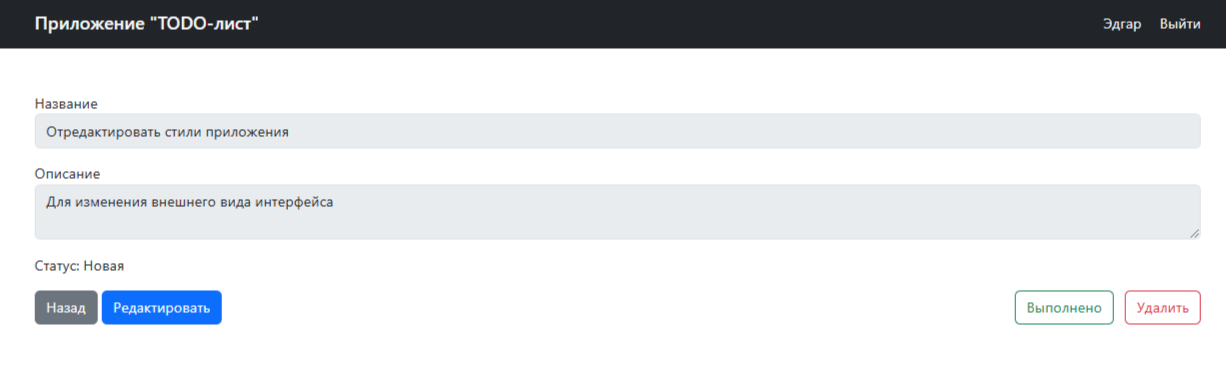
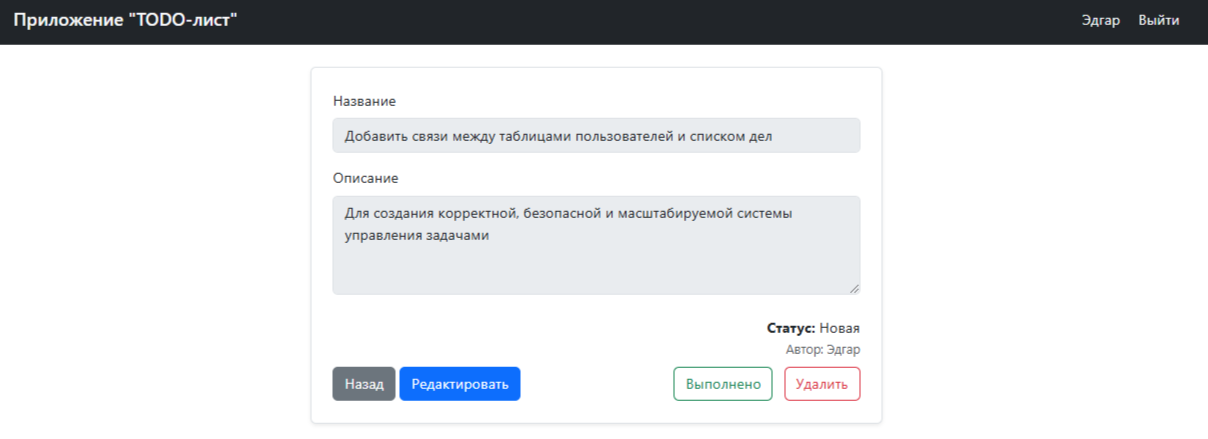
0. ToOne [#6873]

diff --git a/src/main/resources/templates/tasks/view.html b/src/main/resources/templates/tasks/view.html
@@ -5,47 +5,60 @@
 
 <div th:replace="fragments/titlebar :: titlebar"></div>
 
-<div class="container mb-4 mt-4 flex-grow-1">
+<div class="container mb-4 flex-grow-1">
+    <div class="row justify-content-center">
+        <div class="col-6">
 
-    <form th:action="${task.id} == 0 ? '/tasks' : '/tasks/' + ${task.id}" th:object="${task}" method="post">
+            <form th:action="${task.id} == 0 ? '/tasks' : '/tasks/' + ${task.id}" th:object="${task}" method="post"
+                  class="border p-4 rounded shadow-sm bg-white">
 
-        <input type="hidden" th:field="*{id}" />
-        <input type="hidden" th:field="*{created}" />
-        <input type="hidden" th:field="*{done}" />
-        <input type="hidden" th:field="*{editing}" />
+                <input type="hidden" th:field="*{id}" />
+                <input type="hidden" th:field="*{created}" />
+                <input type="hidden" th:field="*{done}" />
+                <input type="hidden" th:field="*{editing}" />
+                <input type="hidden" th:field="*{user.id}" />
 
-        <div class="mb-3">
-            <label>Название</label>
-            <input type="text" th:field="*{title}" class="form-control" th:disabled="${!task.editing}" />
+                <div class="mb-3">
+                    <label class="form-label">Название</label>
+                    <input type="text" th:field="*{title}" class="form-control" th:disabled="${!task.editing}" />
+                </div>
+
+                <div class="mb-3">
+                    <label class="form-label">Описание</label>
+                    <textarea th:field="*{description}" class="form-control" rows="4" th:disabled="${!task.editing}"></textarea>
+                </div>
+
+                <div class="mt-4 d-flex justify-content-between align-items-end">
+                    <div>
+                        <a th:href="@{/index}" class="btn btn-secondary">Назад</a>
+
+                        <button type="submit" class="btn btn-success" th:if="${task.editing}">Сохранить</button>
+
+                        <a th:href="@{'/tasks/' + ${task.id} + '/edit'}" class="btn btn-primary" th:if="${!task.editing}">Редактировать</a>
+                    </div>
+
+                    <div class="text-end" th:if="${!task.editing}">
+                        <div>
+                            <strong>Статус:</strong>
+                            <span th:text="${task.done} ? 'Выполнено' : 'Новая'">Статус</span>
+                        </div>
+
+                        <div th:if="${task.user != null and task.user.name != null}">
+                            <small class="text-muted" th:text="'Автор: ' + ${task.user.name}">Автор</small>
+                        </div>
+
+                        <div class="mt-2">
+                            <a th:href="@{'/tasks/' + ${task.id} + '/done'}"
+                               class="btn btn-outline-success me-2"
+                               th:if="${!task.done}">Выполнено</a>
+                            <a th:href="@{'/tasks/' + ${task.id} + '/delete'}" class="btn btn-outline-danger">Удалить</a>
+                        </div>
+                    </div>
+                </div>
+
+            </form>
         </div>
-
-        <div class="mb-3">
-            <label>Описание</label>
-            <textarea th:field="*{description}" class="form-control" th:disabled="${!task.editing}"></textarea>
-        </div>
-
-        <div class="mb-3">
-            <label>Статус:</label>
-            <span th:text="${task.done} ? 'Выполнено' : 'Новая'"></span>
-        </div>
-
-        <div class="mt-3 d-flex justify-content-between">
-            <div>
-                <a th:href="@{/index}" class="btn btn-secondary">Назад</a>
-
-                <button type="submit" class="btn btn-success" th:if="${task.editing}">Сохранить</button>
-
-                <a th:href="@{'/tasks/' + ${task.id} + '/edit'}" class="btn btn-primary" th:if="${!task.editing}">Редактировать</a>
-            </div>
-
-            <div class="ms-auto" th:if="${!task.editing}">
-                <a th:href="@{'/tasks/' + ${task.id} + '/done'}" class="btn btn-outline-success me-2" th:if="${!task.done}">Выполнено</a>
-                <a th:href="@{'/tasks/' + ${task.id} + '/delete'}" class="btn btn-outline-danger">Удалить</a>
-            </div>
-        </div>
-
-    </form>
-
+    </div>
 </div>
 
 <footer th:include="fragments/footer :: footer"></footer>

diff --git a/src/main/resources/templates/fragments/tasklist.html b/src/main/resources/templates/fragments/tasklist.html
@@ -14,8 +14,12 @@
                      th:classappend="${task.done} ? ' text-decoration-line-through' : ''">
                     Заголовок
                 </div>
-                <div class="text-muted small" th:text="${#temporals.format(task.created, 'dd.MM.yyyy HH:mm')}">Дата</div>
+                <div class="text-muted small">
+                    <span th:text="${#temporals.format(task.created, 'dd.MM.yyyy HH:mm')}">Дата</span>
+                    <span th:if="${task.user != null}" class="ms-2" th:text="'Автор: ' + ${task.user.name}">Автор</span>
+                </div>
             </div>
+
             <div th:if="${task.done}" class="text-success fs-5">
                 <i class="bi bi-check-circle-fill"></i>
             </div>

diff --git a/src/main/java/ru/job4j/todo/controller/TaskController.java b/src/main/java/ru/job4j/todo/controller/TaskController.java
@@ -1,5 +1,6 @@
 package ru.job4j.todo.controller;
 
+import jakarta.servlet.http.HttpSession;
 import lombok.AllArgsConstructor;
 import org.springframework.stereotype.Controller;
 import org.springframework.ui.Model;
@@ -8,6 +9,7 @@ import org.springframework.web.bind.annotation.ModelAttribute;
 import org.springframework.web.bind.annotation.PathVariable;
 import org.springframework.web.bind.annotation.PostMapping;
 import ru.job4j.todo.dto.TaskDto;
+import ru.job4j.todo.model.User;
 import ru.job4j.todo.service.TaskService;
 
 import java.time.LocalDateTime;
@@ -37,10 +39,12 @@ public class TaskController {
     }
 
     @GetMapping("/tasks/new")
-    public String createTask(Model model) {
+    public String createTask(Model model, HttpSession session) {
+        User user = (User) session.getAttribute("user");
         TaskDto taskDto = new TaskDto();
         taskDto.setEditing(true);
         taskDto.setCreated(LocalDateTime.now());
+        taskDto.setUser(user);
         model.addAttribute("task", taskDto);
         return "tasks/view";
     }

diff --git a/src/main/java/ru/job4j/todo/service/SimpleTaskService.java b/src/main/java/ru/job4j/todo/service/SimpleTaskService.java
@@ -59,6 +59,7 @@ public class SimpleTaskService implements TaskService {
         task.setDescription(dto.getDescription());
         task.setCreated(dto.getCreated());
         task.setDone(dto.isDone());
+        task.setUser(dto.getUser());
         return task;
     }
 
@@ -70,6 +71,7 @@ public class SimpleTaskService implements TaskService {
         dto.setCreated(task.getCreated());
         dto.setDone(task.isDone());
         dto.setEditing(editing);
+        dto.setUser(task.getUser());
         return dto;
     }
 }

diff --git a/src/main/java/ru/job4j/todo/dto/TaskDto.java b/src/main/java/ru/job4j/todo/dto/TaskDto.java
@@ -3,6 +3,7 @@ package ru.job4j.todo.dto;
 import lombok.AllArgsConstructor;
 import lombok.Data;
 import lombok.NoArgsConstructor;
+import ru.job4j.todo.model.User;
 
 import java.time.LocalDateTime;
 
@@ -16,4 +17,5 @@ public class TaskDto {
     private LocalDateTime created;
     private boolean done;
     private boolean editing;
+    private User user;
 }

diff --git a/src/main/java/ru/job4j/todo/model/Task.java b/src/main/java/ru/job4j/todo/model/Task.java
@@ -20,4 +20,8 @@ public class Task {
     private String description;
     private LocalDateTime created;
     private boolean done;
+
+    @ManyToOne
+    @JoinColumn(name = "user_id")
+    private User user;
 }

diff --git a/README.md b/README.md
@@ -44,5 +44,5 @@ mvn spring-boot:run
 ![tasklist.png](img/tasklist.png)
 ### Карточка задачи
 ![createtask.png](img/createtask.png)
-### Форма регистрации
+### Форма входа
 ![register.png](img/register.png)
